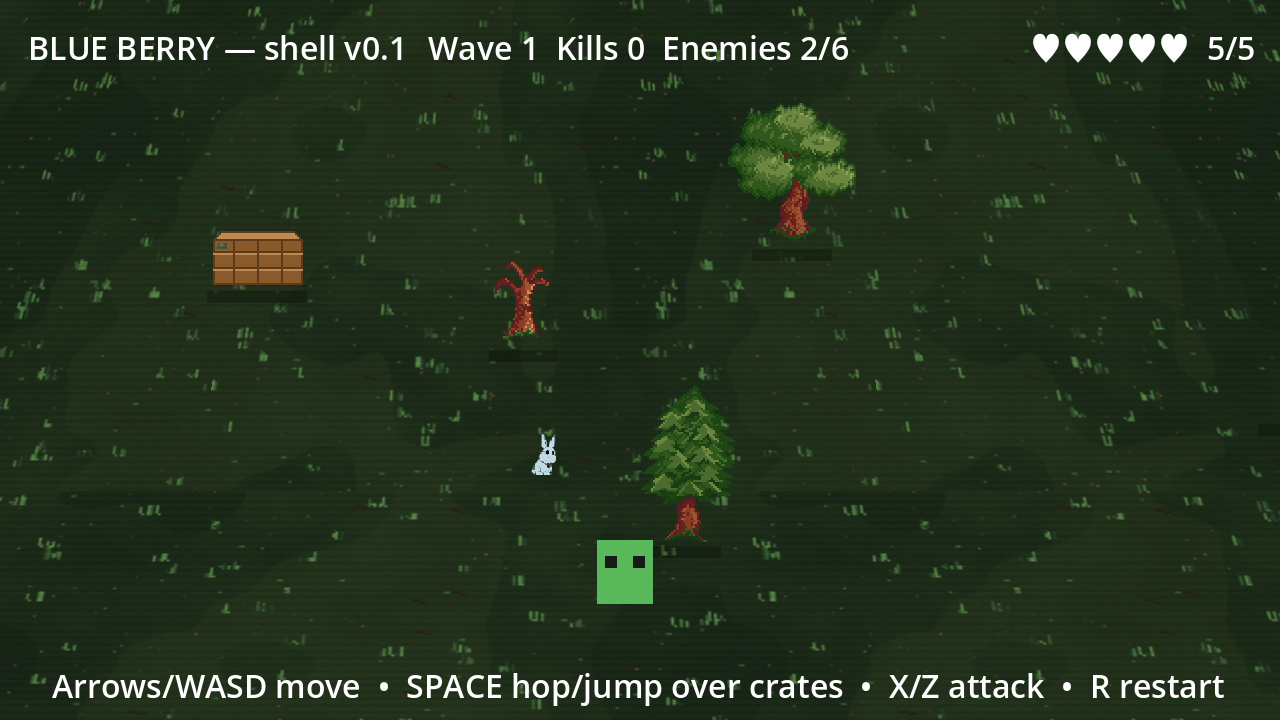
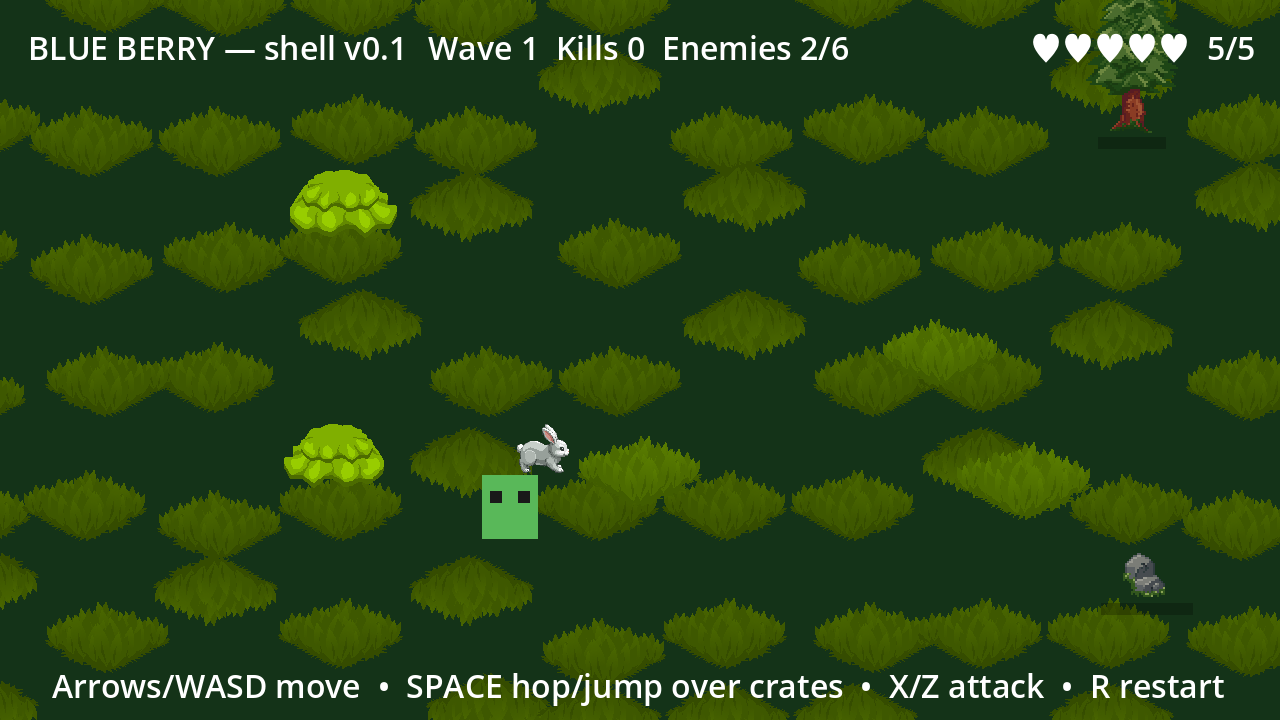
docs: sync spec, runbook, and plan for player art, forest, and ground

diff --git a/PLAN.md b/PLAN.md
@@ -19,6 +19,7 @@
 **Goal:** Rabbit feels good; no new systems.
 - [x] **Rabbit sheet (2026-09-18):** `blueberry_1.png` `64×64` wired as `Player.tscn` `SpriteFrames` `idle/run/hop/attack/hurt`.
 - [x] **Rabbit run strip (2026-09-25):** `assets/sprites/rabbit_run.png` `1280×256` (5× `256×256`, bg cleared) wired as `idle` (frame 0) / `run` (5f @10fps) / `hop` (5f @12fps); sprite `pos 0,-10 scale 0.2`; hop rest pose via `_sprite_base_y`.
+- [x] **Rabbit up/down art (2026-10-03):** `assets/sprites/rabbit_updown.png` `256×180` top-down single frame (black bg border-flood-cleared) wired as `run_up`/`run_down` (loop @10fps); `player.gd` picks by dominant axis, `scale.y` flipped when moving up, `facing` flip on `x` input only.
 - [ ] **Enemy skin:** `slime/bug` `16×16 @2×` for `Enemy.tscn` `idle/run/attack/hurt`.
 - [ ] **Hitstop + flash:** Verify `player.gd:270 time_scale 0.08 0.05s` already; add enemy flash `0.12s` + `Camera shake 2px` on hit.
 - [ ] **Hop feel:** Playtest `hop_distance 64→72` if short, `cooldown 0.45→0.38` if sticky.
@@ -34,7 +35,8 @@
 
 ### Sprint 3 — World & Flow (2–3 days)
 - [x] **Parallax forest base (2026-09-18):** procedural tileable set (`bg_distant 1280`, `forest 512`, `ground 256`, `fg 320` RGBA) wired in `Background.tscn`/`background.gd` with period-correct centered wrap for the 2400px arena. Hand-tweak in Clip Studio per `parallax_spec.md` §10.
-- [ ] **Arena TileMap:** Replace `Ground ColorRect` with `TileMapLayer` `TileSet 16×16` `physics layer` walls same `Walls` pos; keep `y_sort`.
+- [x] **2DPIXX pack intake (2026-10-03):** "Free 2D Isometric Fantasy Pack" (CC-BY-4.0, Jana Ochse) vendored as `assets/vendor/2dpixx/` (12 PNGs short-named + verbatim `LICENSE.TXT` + `ATTRIBUTION.md` with layout notes); `--import` exit 0. Forest sheet inspected: 5×5 of `128×128` (trees/bushes/stumps/logs/rock/tufts + iso ground BLOCKS with side faces — blocks unsuitable as flat ground, flora usable as props). See `Forest Floor Plan` below.
+- [x] **Arena TileMap (2026-10-03):** tuft meadow instead of `16×16` TileSet — `GroundTiles` TileMapLayer (`scripts/ground.gd`, z -1, modulate 0.82) with runtime-built TileSet tiling `pix_tuft.png` (38×10 @0.5 = 64px, 6 flip/offset variants, deterministic seed); moss `Ground` ColorRect underlay (z -2, GroundGrid hidden). Tried grass cubes first — too neon as full quilt; tuft reads as scattered grass. Supersedes the TileMap sketch below.
 - [ ] **Juice:** `StartScreen` intro tween already; add `GameOver` shake, `HUD` hearts pop `scale 1.2→1.0`.
 - [ ] **Pause menu:** `scenes/PauseMenu.tscn` `CanvasLayer ALWAYS` `Esc → paused toggle` `Resume/Quit`.
 
@@ -43,6 +45,62 @@
 - [ ] **Boss:** First boss `big berry` `HP 12` `speed 44` `burst 2` `arena center` on `wave 5`.
 - [ ] **Mobile/Gamepad:** `InputMap` already Joy; add `TouchScreenButton` `hop/attack` anchors.
 - [ ] **Save:** `ConfigFile` `kills/wave` high score.
+
+---
+
+## Forest Floor Plan (2DPIXX pack — field of trees & bushes)
+
+**Goal look/feel:** flat grass arena dressed as a forest floor — trees and bushes
+scattered around that the rabbit runs between while chasers hunt it. Ground
+stays flat (existing base); flora are Y-sorted props, not a TileMap.
+
+**Phase 1 — decor scatter (no gameplay change):**
+1. `scenes/Flora.tscn` + `scripts/flora.gd`: `Node2D` root with `Sprite2D`
+   (`AtlasTexture` cell from `tileset-forest.png`, centered, displayed `@0.5`
+   ≈64px to sit with the chunky art) + exported `blocks: bool`.
+   Non-blocking default (bushes, grass tufts, flowers): no collision.
+2. `main.gd` seeded scatter (`RandomNumberGenerator`, fixed seed): ~20 bushes/
+   tufts inside the `2400×900` arena, clear radius ~200px around player spawn,
+   as children of a `Flora` Node2D under the already-`y_sort` arena so the
+   rabbit/enemies pass correctly in front/behind.
+3. Enemy spawner untouched (edge ring) — chasers run between the bushes.
+
+**Built 2026-10-03 (Phases 1+2, as-built — supersedes the sketch above):**
+- Cells pre-cut to `assets/sprites/forest/pix_*.png` (17 PNGs, offsets
+  base-aligned from measured opaque bbox). `grass_1/2` are iso BLOCKS, excluded.
+- `Flora.tscn` root is `StaticBody2D` (not `Node2D`): `decor` → layer 0 +
+  shape disabled; `block` (tree_1..4, rock) → layer 1 = Walls (blocks player
+  AND enemies, no hop-clear). Cosmetic flip_h + scale jitter (decor only).
+- Flora are DIRECT children of Main (no container) so y_sort orders each prop
+  vs the Player; enemies (in `$Enemies`, y≈0) always draw under flora — reads
+  as chasers pushing through bushes, accepted.
+- `main.gd`: `ARENA_SEED=20261003` seeded `rng` drives obstacles AND flora
+  (deterministic layout); `_spawn_flora` 18 decor (`bush_1/2`, `tuft`) + 7
+  blockers (central band `|x|<0.35W`, clear 220px, spacing 150); cleared via
+  group `flora` on menu/start like obstacles.
+- `obstacle.gd`: 7 hop-able `pix_*` variants (stump×3, logs×2, mound×2 @0.5)
+  added to `RANDOM_TYPES` — hop clears them on layer 32 as before.
+- StartScreen credit line (CC-BY-4.0) added. Verified: `--import` + `check`
+  exit 0 / 0 warnings, `screenshot.gd` showcase re-captured (bush/tree/mound/
+  rock/tuft all visible, dirt patches blend).
+
+**Phase 2 — hop-able + blocking props (gameplay):**
+4. Stumps/logs reuse the `Obstacle.tscn` layer-32 pattern (hop clears them);
+   add forest `AtlasTexture` variants to `obstacle.gd` or a `Flora` blocker mode.
+5. Trees/rocks become `StaticBody2D` blockers with trunk-sized (not canopy)
+   `CollisionShape2D`, sparse placement away from the spawn ring. Caveat: chaser
+   AI has no pathfinding and can snag on blockers — keep blockers few until
+   Sprint 4 nav lands; separation steering already helps.
+6. CC-BY-4.0 credit line ("Forest art: Jana Ochse (2DPIXX), www.2dpixx.de") on
+   `StartScreen` + docs (required if the art ships).
+
+**Explicitly out:** iso ground blocks as arena floor (side faces = raised-block
+look, wrong for flat top-down); character sheets (archer/warrior/wizard) —
+future enemy-variant option, not this plan.
+
+**Verify per phase:** `--import` + headless `smoke` exit 0 / 0 warnings,
+`screenshot.gd` showcase compare, `/run play` — rabbit weaves through flora,
+hop clears logs, enemies still reach the player.
 
 ---
 

diff --git a/SPEC.md b/SPEC.md
@@ -50,11 +50,11 @@ Kill → score + `kills%6 → wave++`, `kills%8 → wave++` (spawner ramp, futur
 - **Body:** `CharacterBody2D` `groups=["player"]` `collision layer 0 mask 33` (world 1 + obstacle 32); `CollisionShape2D` `Rect 5×7` at `0,0.5` (feet +4); `AnimatedSprite2D` `pos 0,-10 scale 0.2` `texture_filter 0` wired to `assets/sprites/rabbit_run.png` 5-frame strip (`AtlasTexture` 256×256 regions) for `idle/run/hop` plus `blueberry_1.png` for `attack/hurt` (`ColorRect` placeholder body/ears/eyes kept as fallback); `Camera2D` `smoothing 6 drag 0.15`. Hop arc uses `_sprite_base_y` captured in `_ready` so the rest pose always matches the scene offset.
 - **Exports:** `move_speed 130` `hop_distance 64 hop_duration 0.28 hop_cooldown 0.45 hop_iframes 0.22` `max_health 5 attack_damage 1 attack_cooldown 0.18 hurt_iframe 0.8 hurt_stun 0.35`.
 - **State:** `enum State {IDLE,RUN,HOP,ATTACK,HURT,DEAD}` `health` `facing 1/-1` timers `hop_cooldown/hop/hop_iframe/attack/attack_cooldown/hurt/hurt_iframe` `hop_dir` `attack_hit_enemies`.
-- **Movement:** `get_axis` → normalized `*130` → `move_and_slide`; `RUN/IDLE` anim; `facing` flips `sprite.scale.x` (negated — strip art faces left, so `facing 1` mirrors) + `AttackHitbox.x`.
+- **Movement:** `get_axis` → normalized `*130` → `move_and_slide`; `RUN/IDLE` anim; dominant axis picks the strip — vertical (`|y|>|x|`) plays `run_up`/`run_down` from `assets/sprites/rabbit_updown.png` (top-down single frame `256×180`, black bg flood-cleared; as-drawn faces down-screen, `scale.y` flipped when moving up, `_play_anim` restores upright for all side anims), else side `run`; `facing` flips `sprite.scale.x` on `x` input only (negated — strip art faces left, so `facing 1` mirrors) + `AttackHitbox.x`.
 - **Hop:** `_start_hop:170` `dir = input or facing`, `HOP` `hop_timer 0.28` `iframes 0.22` `velocity dir*(64/0.28)` `Hurtbox monitoring=false` deferred `await 0.22 → true`, flicker `ticks/60.0%2`, retain `0.2` velocity. Cooldown `0.45+0.28`. Hop drops body mask to `1`, so the player sails over layer-32 obstacles (see §7).
 - **Attack:** `_start_attack:193` `ATTACK` `timer 0.36` `await 0.08 → active true` `AttackHitbox 10×6.5 at 5.5,-3.5 layer4 mask8` → `await 0.12 → false`, root `0.15` speed, `cooldown 0.18`, one hit per swing `hit_enemies`, hitstop `time_scale 0.08 0.05s` `tween` none.
 - **Damage:** `Hurtbox Area2D layer2 mask16` vs `enemy_attack 16`; `take_damage:212` ignores if `DEAD`/`hurt_iframe`/`hop_iframe`, `health--` `health_changed`, `HURT 0.35 i-frame 0.8` knock `180` flash tween, `_die:240` `DEAD` `Hurtbox false deferred` `Collision true deferred` `died` `modulate 0.6`.
-- **Visual Hook:** `SpriteFrames` `idle` (frame 0) / `run` (5 frames @10fps, loop) / `hop` (5 frames @12fps) from `assets/sprites/rabbit_run.png` (`1280×256` strip, bg `#3E3E3E` flood-cleared to transparent, `Nearest` `Mipmaps Off`); `attack/hurt` still `blueberry_1.png` (64×64). Anim names kept. Enemy still uses `ColorRect` placeholder.
+- **Visual Hook:** `SpriteFrames` `idle` (frame 0) / `run` (5 frames @10fps, loop) / `hop` (5 frames @12fps) from `assets/sprites/rabbit_run.png` (`1280×256` strip, bg `#3E3E3E` flood-cleared to transparent, `Nearest` `Mipmaps Off`); `run_up`/`run_down` (single frame @10fps, loop) from `assets/sprites/rabbit_updown.png` (`256×180` top-down, black bg border-flood-cleared); `attack/hurt` still `blueberry_1.png` (64×64). Anim names kept. Enemy still uses `ColorRect` placeholder.
 
 ### Physics
 
@@ -88,10 +88,12 @@ Kill → score + `kills%6 → wave++`, `kills%8 → wave++` (spawner ramp, futur
 
 ```
 Main [Node2D] y_sort script=main.gd GameState START/PLAYING/GAME_OVER
-├── Ground ColorRect (hidden legacy, `visible=false`) + GroundGrid lines
+├── Ground ColorRect visible (moss underlay `-1216,-108→1216,532`, z -2; GroundGrid hidden legacy)
+├── GroundTiles TileMapLayer (`scripts/ground.gd`, z -1, modulate 0.82): runtime-built TileSet tiling `pix_tuft.png` (38×10 @0.5 = 64px tiles covering walls; 6 flip/offset alternative variants, deterministic `SEED 20261008`)
 ├── Walls StaticBody Top at horizon (y=-100, 2400×16) / Bottom ±458 / Left-Right ±1208 16×900 — nothing walks above the ridge
 ├── Player instance Player.tscn 0,0
-├── Obstacles Node2D y_sort (jump-over crate/rock/log + KipperFalcon forest rocks/trees, `Obstacle.tscn`/`obstacle.gd`, layer 32; HOP mask drops to 1 to clear them)
+├── Obstacles Node2D y_sort (jump-over crate/rock/log + KipperFalcon forest rocks/trees + 2DPIXX `pix_*` stump/log/mound cells @0.5, `Obstacle.tscn`/`obstacle.gd`, layer 32; HOP mask drops to 1 to clear them)
+├── Flora 2DPIXX props as DIRECT Main children (y_sort vs Player): `Flora.tscn`/`flora.gd` `decor` (bush/tuft, layer 0, no collision) + `block` (tree/rock, layer 1 = Walls, blocks player AND enemies); seeded scatter `ARENA_SEED` in `main.gd` (`flora_decor 18` / `flora_blocker 7`, spawn clear radius, `grass_1/2` excluded — iso blocks)
 ├── Enemies Node2D y_sort
 ├── SpawnTimer 2.2 one_shot false
 ├── CanvasLayer
@@ -140,6 +142,7 @@ If sluggish → `player.gd:10 move_speed 150`; hop short → `hop_distance 80`; 
 ## 11. Third-Party Assets
 
 - `assets/environment/kipper_falcon/isometric_forest/` — KipperFalcon "Isometric Forest Pixel Art 2D" Godot Store pack. Runtime PNGs are used by `scripts/obstacle.gd` for forest rock/tree variants; `ASSET_NOTES.md` and the original `README.txt` describe source and usage limits. Do not repackage this folder as a standalone asset collection.
+- `assets/vendor/2dpixx/` — 2DPIXX "Free 2D Isometric Fantasy Pack" (Godot Store, Final Release), CC-BY-4.0, author Jana Ochse (2DPIXX), www.2dpixx.de. `ATTRIBUTION.md` maps the renamed files + measured layouts (forest sheet `640×640` = 5×5 of `128×128`; char sheets `512×640` = 4×4 of `128×160`); `LICENSE.TXT` is verbatim upstream. If this art ships in-game, credit the author in the game's credits/docs.
 
 ---
 

diff --git a/AGENTS.md b/AGENTS.md
@@ -26,9 +26,13 @@ Follow `SPEC.md` if any docs conflict, then update stale docs in the same change
 
 - `project.godot` — main scene and engine settings.
 - `scenes/Main.tscn` + `scripts/main.gd` — game state, HUD, spawner, `2400×900` arena, start/game-over flow.
-- `scenes/Player.tscn` + `scripts/player.gd` — rabbit controls, hop (clears obstacles), attack, health; movement art from `assets/sprites/rabbit_run.png` 5-frame strip (`attack/hurt` still `blueberry_1.png`).
+- `scenes/Player.tscn` + `scripts/player.gd` — rabbit controls, hop (clears obstacles), attack, health; side art `assets/sprites/rabbit_run.png` 5-frame strip (`idle/run/hop`), vertical art `assets/sprites/rabbit_updown.png` (`run_up`/`run_down`, dominant-axis pick), `attack/hurt` still `blueberry_1.png`.
 - `scenes/Enemy.tscn` + `scripts/enemy.gd` — chaser AI and combat.
 - `scenes/Obstacle.tscn` + `scripts/obstacle.gd` — jump-over crate/rock/log plus KipperFalcon forest rocks/trees, layer 32.
+- `assets/vendor/2dpixx/` — 2DPIXX isometric fantasy pack (CC-BY-4.0, Jana Ochse): forest/dungeon/village sheets + 9 char sheets, `ATTRIBUTION.md` layouts; flora props per `PLAN.md` Forest Floor Plan (iso ground blocks NOT for flat floor).
+- `scenes/Main.tscn` — `GroundTiles` TileMapLayer (`scripts/ground.gd`, runtime TileSet from `tileset-forest.png`, z -1) + moss `Ground` underlay (z -2): full-arena grass-block meadow.
+- `scenes/Flora.tscn` + `scripts/flora.gd` — 2DPIXX forest dressing, direct Main children for y_sort: `decor` (bush/tuft, layer 0) + `block` (tree/rock, layer 1); cells in `assets/sprites/forest/pix_*.png` @0.5, seeded scatter in `main.gd`.
+- `scripts/obstacle.gd` — also has 7 hop-able 2DPIXX `pix_*` variants (stump/logs/mound @0.5, layer 32).
 - `scenes/StartScreen.tscn`, `scenes/GameOverScreen.tscn` — shell flow UI.
 - `scenes/Background.tscn`, `scenes/Parallax*.tscn`, `scripts/background.gd`, `parallax_spec.md` — background/parallax work.
 - `.opencode/skills/run-game/` — `run-game` skill: run/play/verify the game via `run-game.sh` (`play`/`editor`/`import`/`check`/`smoke`), not ad-hoc `godot` commands. Shortcut: `/run` (`.opencode/commands/run.md`, defaults to headless `smoke`).

diff --git a/MEMORY.md b/MEMORY.md
@@ -71,9 +71,12 @@
 | `assets/environment/kipper_falcon/isometric_forest/` | — | KipperFalcon Godot Store pack runtime PNGs + original `README.txt`; used by forest obstacle variants |
 | `blueberry_1.png` | `uid://ddp8fxr6as2ox` | player `attack/hurt` frames (64×64) |
 | `assets/sprites/rabbit_run.png` | — | player `idle/run/hop` 5-frame strip (`1280×256`, frames 256×256, gray bg cleared to alpha) |
+| `assets/sprites/rabbit_updown.png` | — | player `run_up`/`run_down` top-down single frame (`256×180`, black bg border-flood-cleared); picked by dominant axis in `player.gd` movement |
 | `assets/environment/kipper_falcon/…` | — | forest trees/rocks obstacles (see its `ASSET_NOTES.md`) |
 | `assets/environment/morbid_ember/…` | — | 64 RPG item icons, MIT (see its `ASSET_NOTES.md`); `blueberries_01`/`potion_red_01` reserved for pickups |
 | `tools/screenshot.gd` | — | dev-only screenshot harness (SceneTree); regenerates `docs/showcase/*.png` |
+| `tools/run-headless.sh` | — | standalone headless runner (`--headless --quit --verbose`); same invocation as `run-game.sh smoke`, runnable without the skill |
+| `tools/run-game.sh` | — | standalone playable runner (windowed `--path`); same invocation as `run-game.sh play` |
 | `scenes/Background.tscn` | `uid://b1ueb3rry_bg` | parallax layers + ground shader mount |
 | `scripts/background.gd` | — | period wrap (`SKY 1280/CLOUD 256/FOREST 512`), pinned FG strips |
 | `assets/backgrounds/*.png` | — | tileable forest set; edit rules `parallax_spec.md` §10 |
